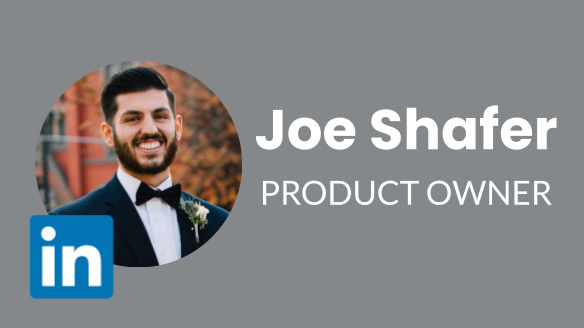
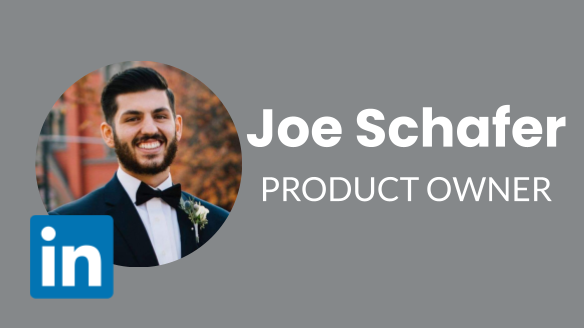
fixing joes spelling

Changed region(s): [[0.4007, 0.3049, 0.9863, 0.4573], [0.4315, 0.5183, 0.9555, 0.6402]]

diff --git a/static/styles/content.less b/static/styles/content.less
@@ -113,6 +113,7 @@
     display: flex; gap: 20px;
     flex-wrap: wrap;
     > a {
+        cursor: pointer;
         .border-4-rounded-red-with-drop-shadow();
         .block();
         .a-as-p();

diff --git a/src/program-management-with-jira/program-management.md b/src/program-management-with-jira/program-management.md
@@ -26,7 +26,7 @@ huge teams for products millions of people use daily.
 </div>
 <img src="../static/img/program-management-with-jira/home/case-study-thumb.png"/>
 </a>
-<a href="https://www.youtube.com/watch?v=ipW1I74cDGo">
+<a href="https://www.linkedin.com/feed/update/urn:li:activity:7103035457785008128?commentUrn=urn%3Ali%3Acomment%3A%28activity%3A7103035457785008128%2C7103106664626561025%29&dashCommentUrn=urn%3Ali%3Afsd_comment%3A%287103106664626561025%2Curn%3Ali%3Aactivity%3A7103035457785008128%29">
 <div>What Folks Are Saying</div>
 <div>
 Thanks again Justin Meyer & Paul Herzog! I'm excited to use the planning & estimating tools you all educated us on and continue to grow my Jira know-how.
